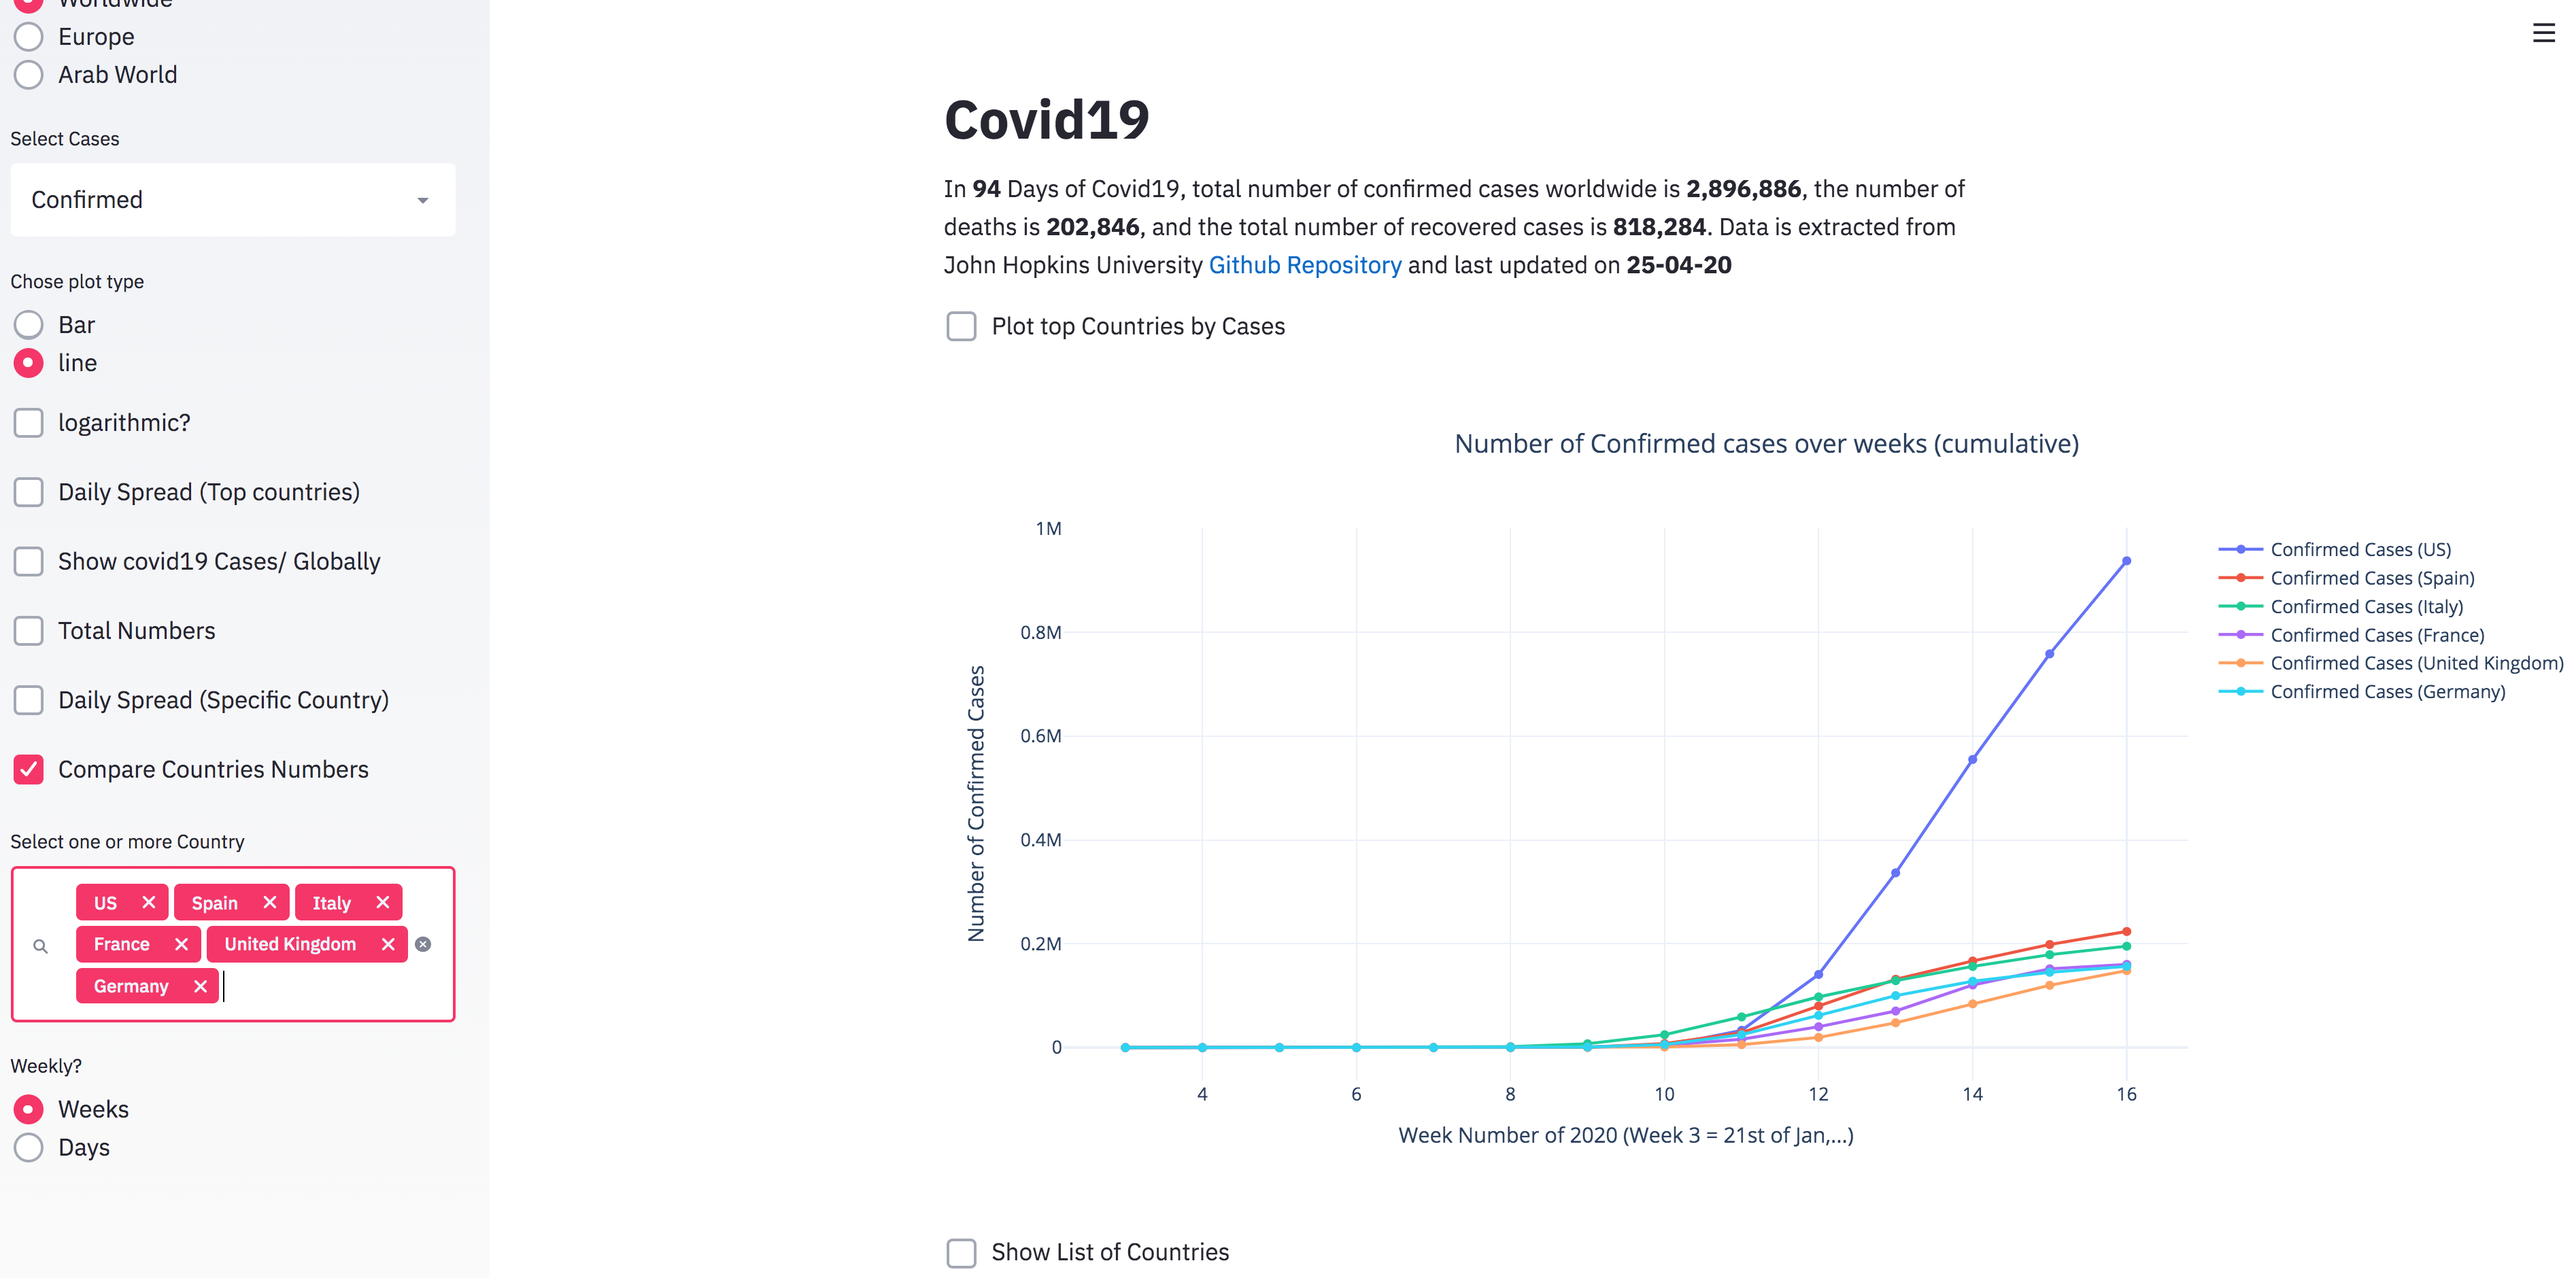
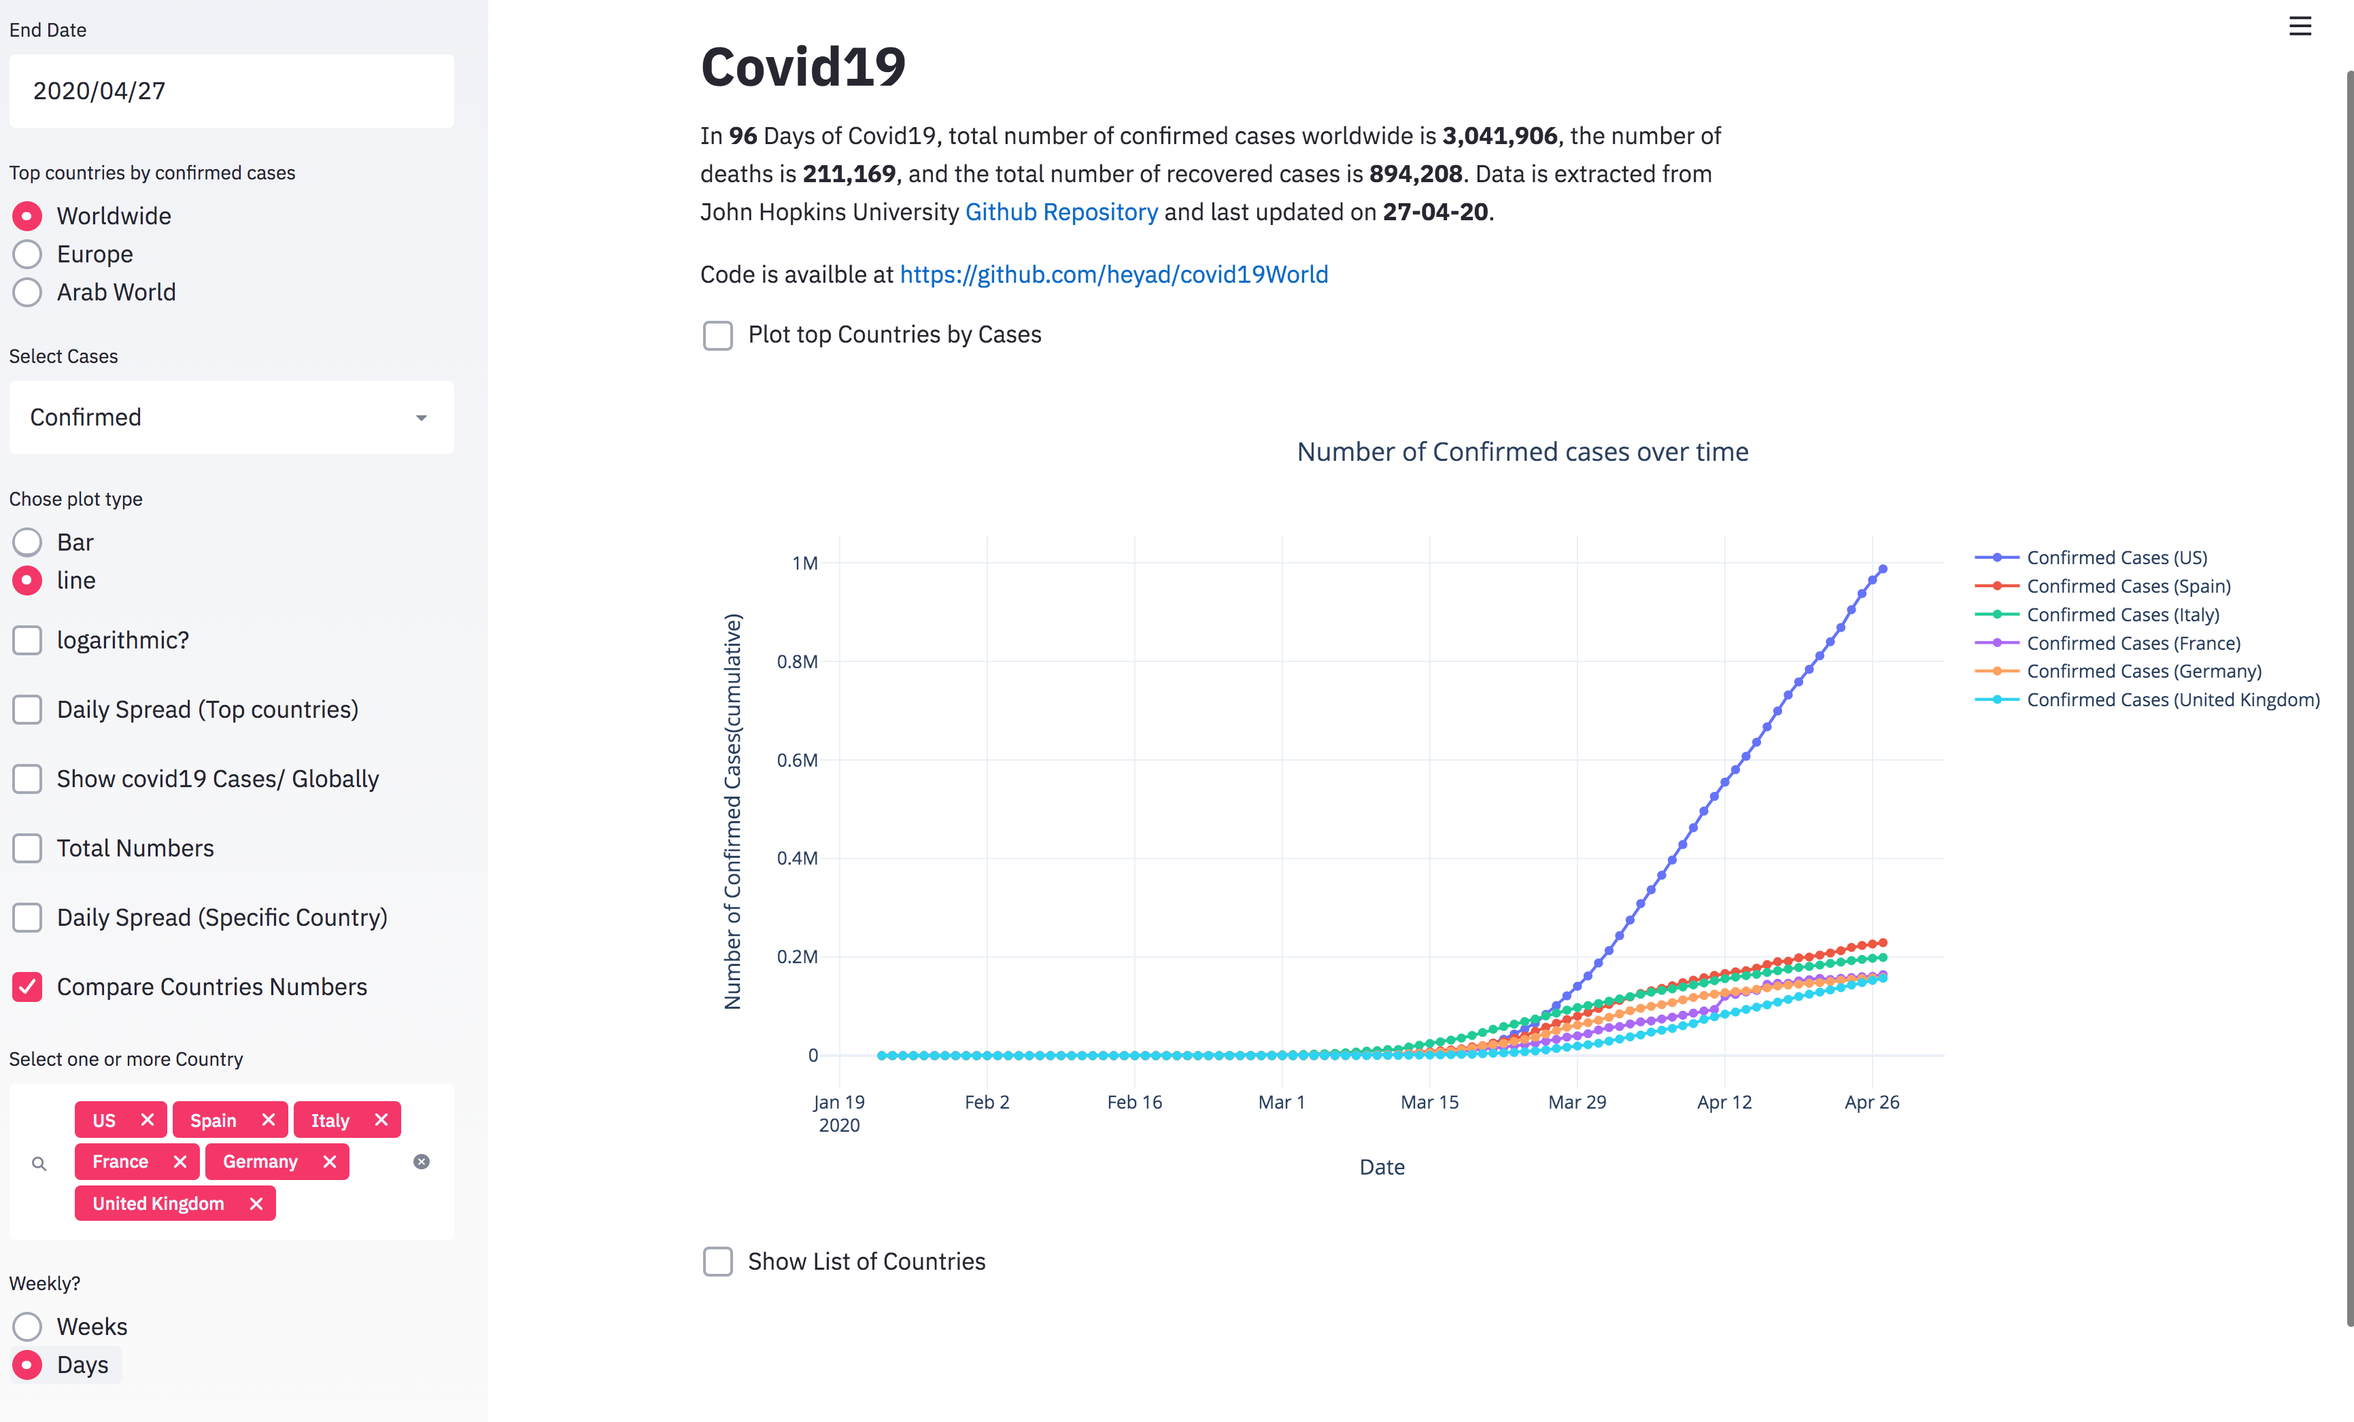
numbers update

diff --git a/covid19.py b/covid19.py
@@ -301,7 +301,7 @@ st.markdown('In '+'<b>'+str(days_dif) + '</b> Days of Covid19, ' +'total number 
     place_value(total_conf) +'</b>, the number of deaths is <b>'+
     str(place_value(total_deaths))+'</b>, and the total number of recovered cases is <b>'+
     place_value(total_rec)+'</b>. ' + 'Data is extracted from John Hopkins University [Github Repository](https://github.com/CSSEGISandData/COVID-19)'+
-    ' and last updated on <b>'+str(pd.to_datetime(max(covid19['Date'])).strftime("%d-%m-%y"))+'</b>',True)
+    ' and last updated on <b>'+str(pd.to_datetime(max(covid19['Date'])).strftime("%d-%m-%y"))+'</b>' +'. <p>Code is availble at [https://github.com/heyad/covid19World](https://github.com/heyad/covid19World)',True)
 covid_days = 1
 
 
@@ -370,10 +370,10 @@ def plot_countries_daily(countries='all',cases='Confirmed',startDate='2020-1-21'
     #temp['Date'] = temp['Date'].dt.strftime('%d-%m-%Y')
 
     if (bar==False):
-        fig = px.line(temp, x="Date", y='Mean', color='Country',  height=500,
+        fig = px.line(temp, x="Date", y='Daily', color='Country',  height=500,
            facet_col='Country', facet_col_wrap=facet_cols,template='plotly_white')
     else:
-        fig = px.bar(temp, x="Date", y='Mean', color='Country',  height=400,
+        fig = px.bar(temp, x="Date", y='Daily', color='Country',  height=400,
            facet_col='Country', facet_col_wrap=facet_cols,template='plotly_white',text=temp['Daily'])
         fig.update_traces(texttemplate='%{text:.2s}', textposition='outside')
 
@@ -530,7 +530,8 @@ def plot_countries_oneD(countries=[],weekly=True, cases='Confirmed',start_date=s
             fig.add_trace(go.Scatter(
                 x=tmp['Week'],
                 y=tmp['Cases'],
-                name=cases+ " Cases ("+str(countries[i])+")"
+                name=cases+ " Cases ("+str(countries[i])+")",
+                mode='lines+markers'
             ))
 
 
@@ -553,7 +554,8 @@ def plot_countries_oneD(countries=[],weekly=True, cases='Confirmed',start_date=s
             fig.add_trace(go.Scatter(
                 x=tmp['Date'],
                 y=tmp['Cases'],
-                name=cases+ " Cases ("+str(countries[i])+")"
+                name=cases+ " Cases ("+str(countries[i])+")",
+                mode='lines+markers'
             ))
 
 
